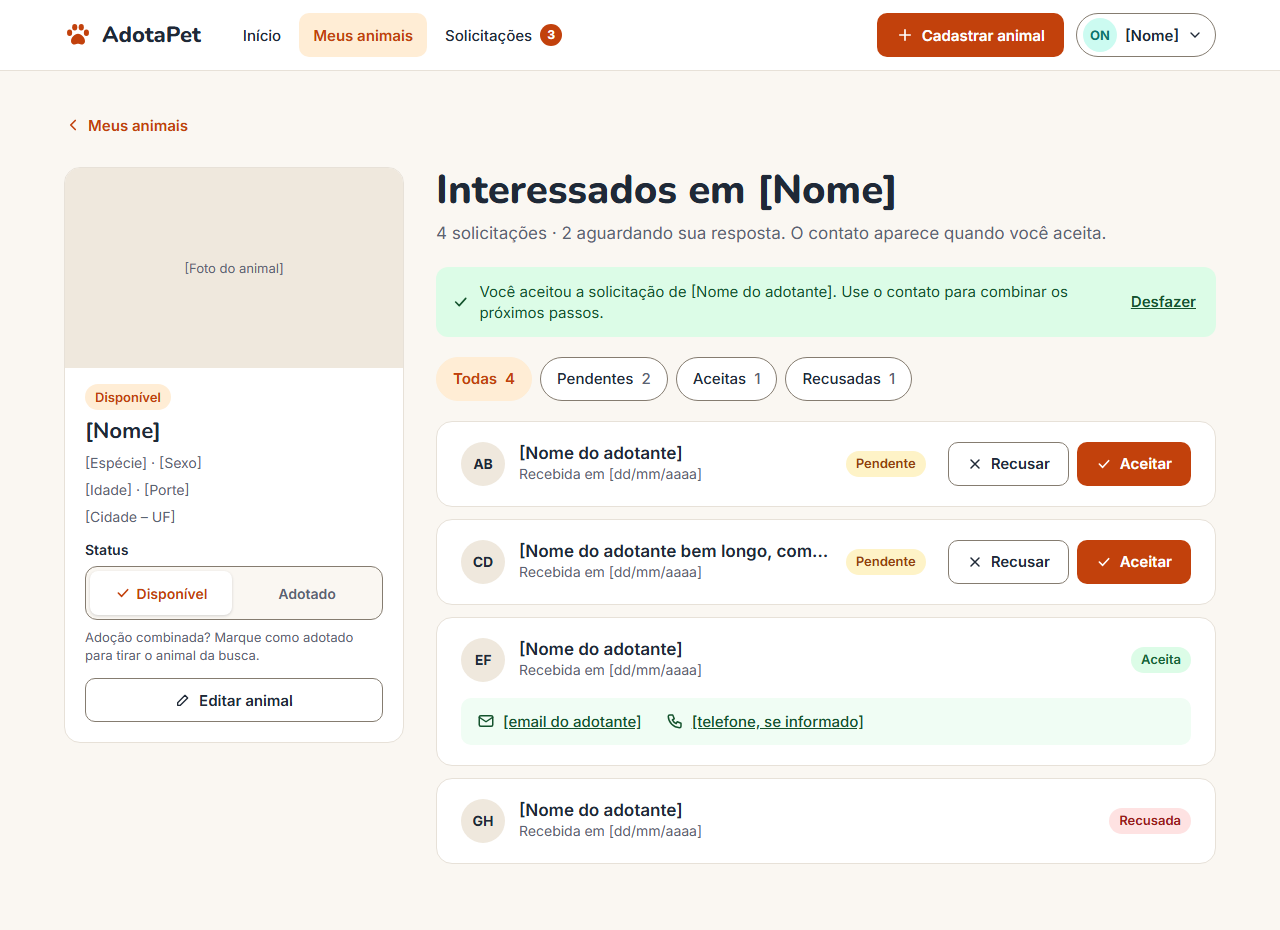
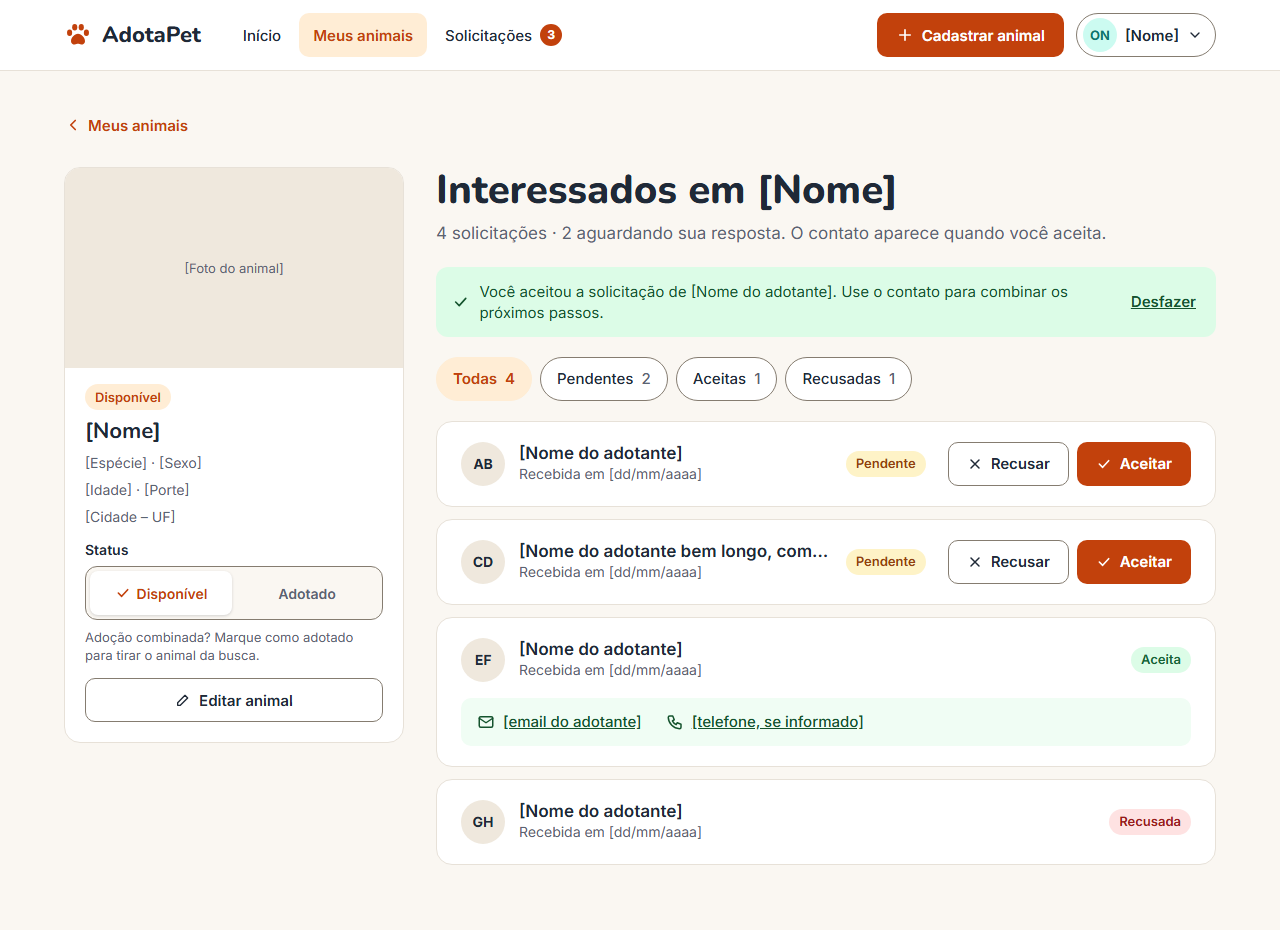
docs: leva links de contato do adotante a 44 px
- Email e telefone do adotante aceito em Interessados no computador com
  44 px de altura, sem mudar a altura da faixa de contato.
- PNG 06 reexportado e responsavel.md atualizado.

Changed region(s): [[0.3438, 0.8108, 0.9375, 0.9043], [0.875, 0.8731, 0.9375, 0.9043]]

diff --git a/docs/wireframes/responsavel.md b/docs/wireframes/responsavel.md
@@ -96,7 +96,7 @@ O nome do animal e a cidade vão até 100 caracteres, e o nome do adotante e o d
 A borda dos controles usa `#857C70`, como na #14: campos, opções de rádio, botões Recusar e Editar, filtros, controle Disponível / Adotado, botão do lápis e tracejado da foto. Dá 4,1:1 no branco e 3,8:1 no fundo `#FAF7F2`, acima do mínimo de 3:1 (WCAG 1.4.11).
 Cartões e divisórias continuam com `#E7E1D8`, porque não são controles.
 
-Todo alvo de toque tem pelo menos 44 px de altura, como pede o estilo da #8: botões, campos, filtros, controle de status, os links do cabeçalho (Início, Meus animais e Solicitações), o logo e o **Desfazer** do aviso no computador, que ali é um botão à parte. No celular o **Desfazer** fica dentro da frase do aviso, como link de texto.
+Todo alvo de toque tem pelo menos 44 px de altura, como pede o estilo da #8: botões, campos, filtros, controle de status, os links do cabeçalho (Início, Meus animais e Solicitações), o logo, o **Desfazer** do aviso no computador, que ali é um botão à parte, e os links de email e telefone do adotante aceito em Interessados. No celular o **Desfazer** fica dentro da frase do aviso, como link de texto.
 
 ## Para o grupo decidir
 
